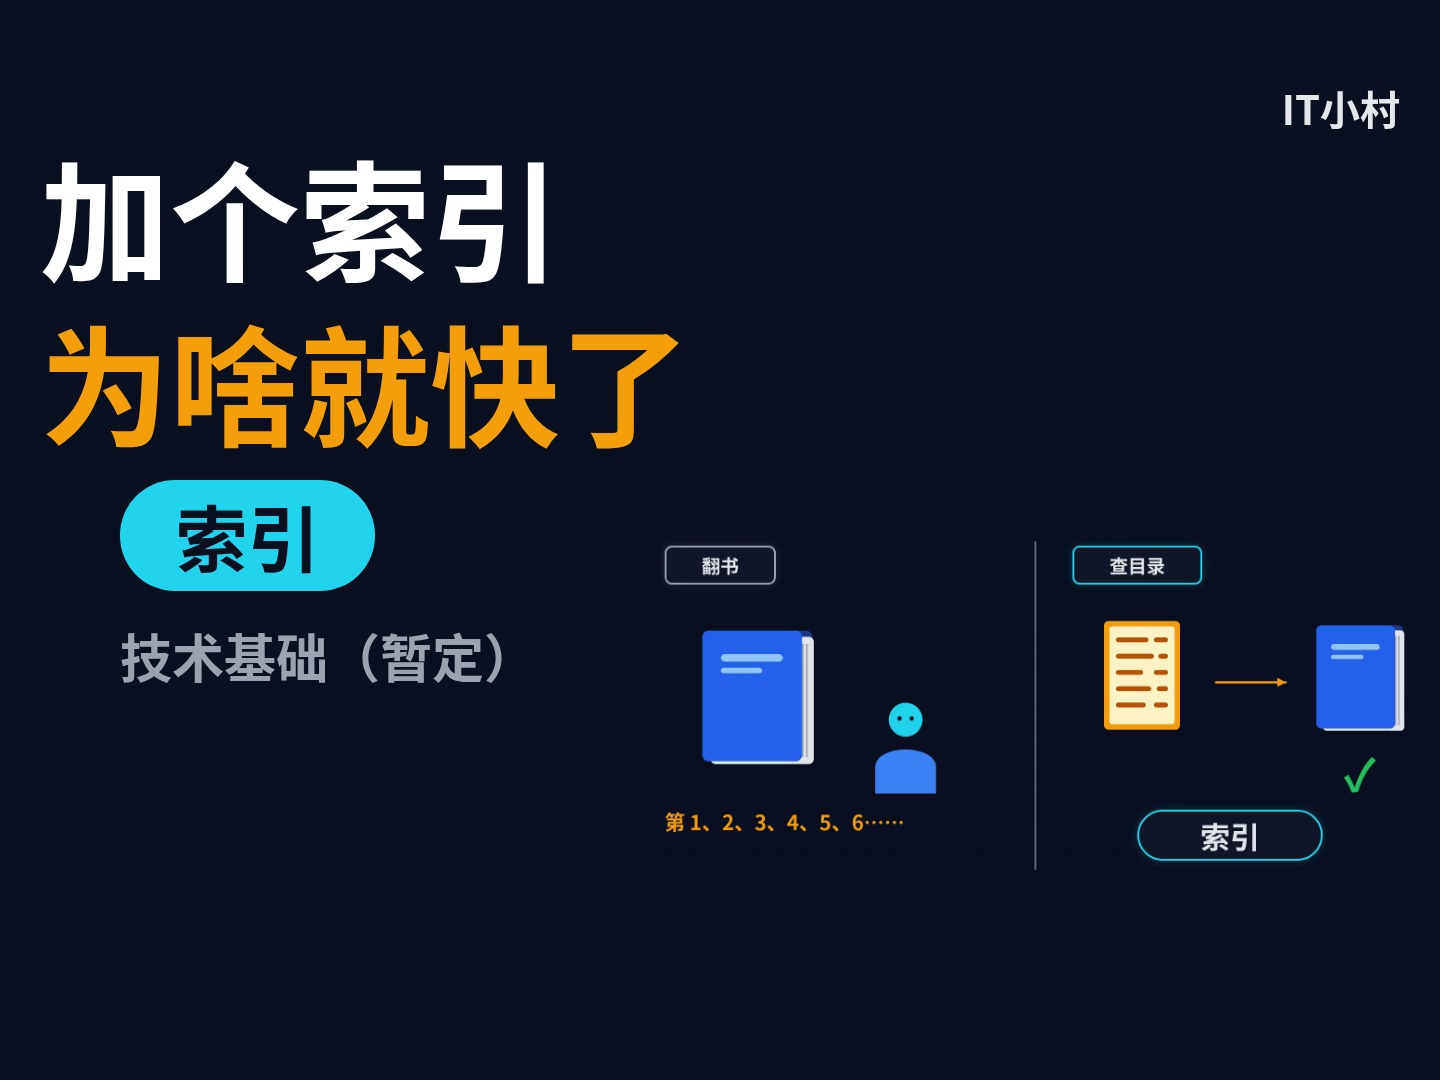
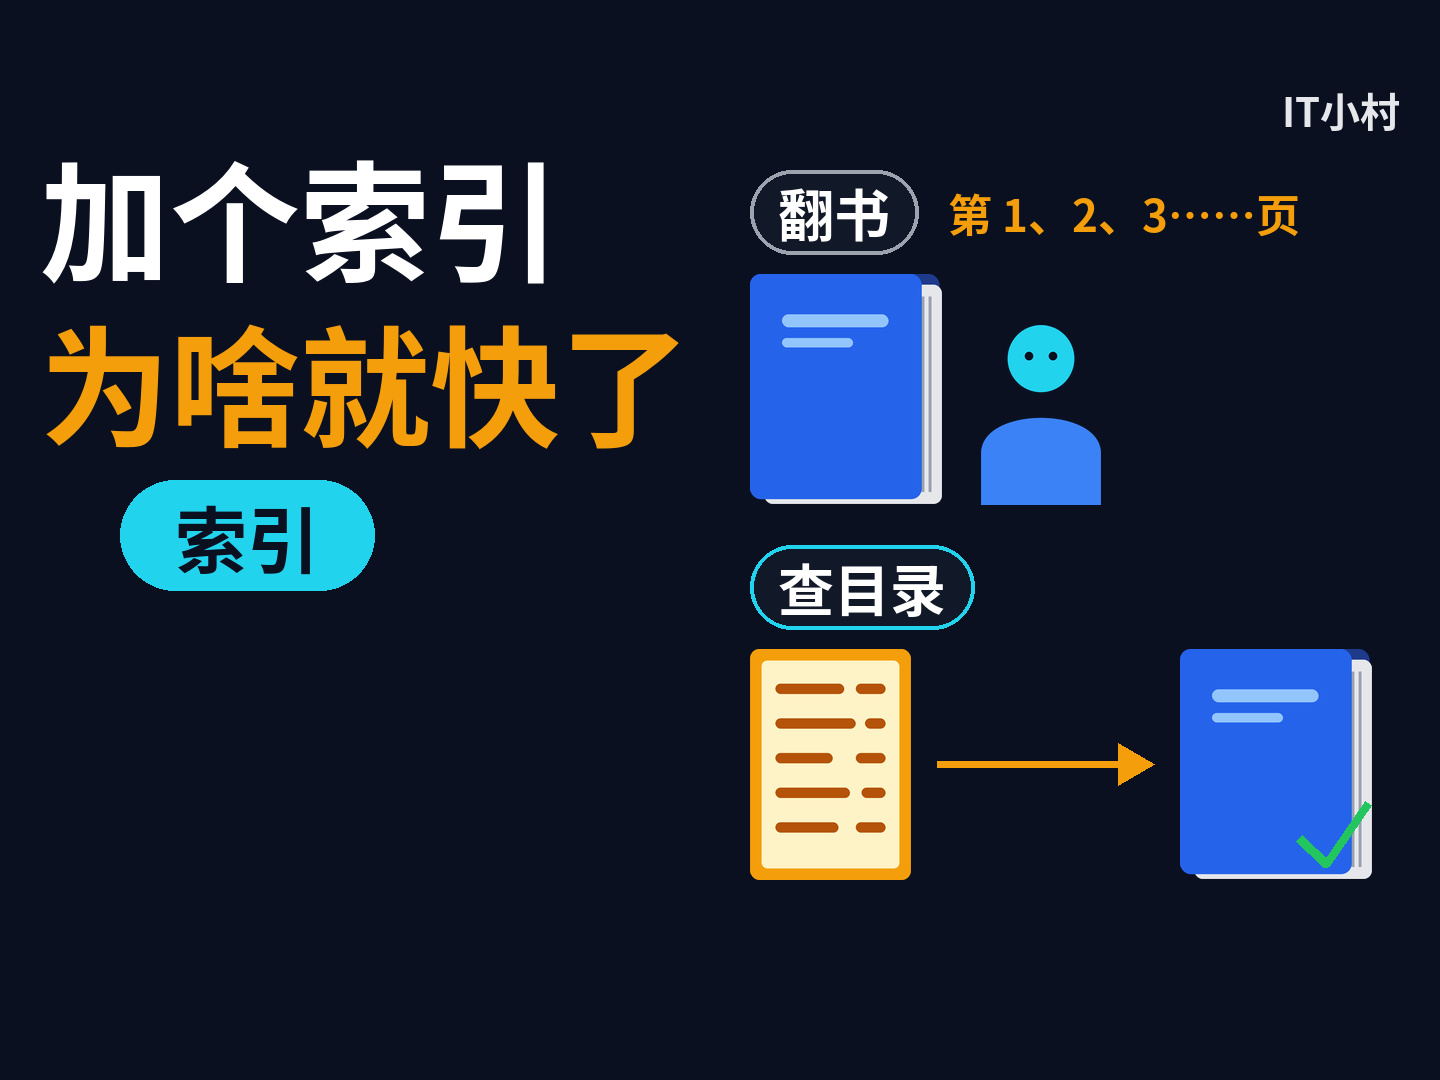
feat(db-index): 第十四期封面换 Miyazaki 定稿设计稿（PNG 源 cover/，转 JPG），cover-spec 标 designed/approved

diff --git a/episodes/db-index/cover/make_cover.py b/episodes/db-index/cover/make_cover.py
@@ -1,0 +1,64 @@
+# EP.14 封面设计稿（Miyazaki）：沿用 covers/make_covers.py 的版式 / 配色 / 字体（EP.12 做法：16:9 主稿，4:3 = 16:9 居中裁 x240–1680，3:4 单独排）
+# 主图用本期自绘 SVG（book / toc / person）重新排：上一行「翻书」= 书 + 小人 + 页码计数；下一行「查目录」= 目录 → 书 ✓。无系列名（未定）
+import io
+from PIL import Image,ImageDraw,ImageFont
+import cairosvg
+A='/workspace/miyazaki-backup/db-index/assets/';OUT='/workspace/miyazaki-backup/db-index/cover/'
+FONT='/usr/share/fonts/opentype/noto/NotoSansCJK-Bold.ttc';FT=lambda s:ImageFont.truetype(FONT,int(s),index=2)
+P=dict(bg="#0B1020",panel="#111827",primary="#22D3EE",accent="#F59E0B",success="#22C55E",text="#FFFFFF",text2="#9CA3AF",line="#374151")
+TITLE=["加个索引","为啥就快了"];BADGE="索引"
+def svg(n,w,h):
+    im=Image.open(io.BytesIO(cairosvg.svg2png(url=A+n+'.svg',output_width=1600))).convert('RGBA');im=im.crop(im.getbbox())
+    k=min(w/im.width,h/im.height);return im.resize((int(im.width*k),int(im.height*k)),Image.LANCZOS)
+def pill(d,x,y,text,fs,col,fill=None):
+    w=int(d.textlength(text,font=FT(fs)))+fs;h=int(fs*1.5)
+    d.rounded_rectangle([x,y,x+w,y+h],h//2,fill=fill or P['panel'],outline=col,width=max(4,fs//12));d.text((x+w/2,y+h/2),text,font=FT(fs),fill=P['text'],anchor='mm');return (x,y,x+w,y+h)
+def tick(d,x,y,s):
+    d.line([(x,y+s*0.5),(x+s*0.38,y+s*0.88),(x+s,y)],fill=P['success'],width=max(8,int(s*0.14)),joint='curve')
+def arrow(d,x0,x1,y,s):
+    d.line([(x0,y),(x1-s,y)],fill=P['accent'],width=max(6,s//4));d.polygon([(x1-s*1.2,y-s*0.7),(x1,y),(x1-s*1.2,y+s*0.7)],fill=P['accent'])
+def place(F,im,x,y): F.alpha_composite(im,(int(x),int(y)));return (int(x),int(y),int(x)+im.width,int(y)+im.height)
+def rows(F,d,x,y,w,h,tagfs,cntfs,tagleft):
+    """两行对比，返回所有占用框（查重叠）"""
+    R=[];rh=(h-40)//2
+    for r in range(2):
+        ry=y+r*(rh+40);label=("翻书",P['text2']) if r==0 else ("查目录",P['primary'])
+        tw=int(d.textlength("查目录",font=FT(tagfs)))+tagfs   # 两个标签同宽对齐
+        if tagleft:
+            th=int(tagfs*1.5);tb=pill(d,x,ry+(rh-th)//2,label[0],tagfs,label[1]);cx=x+tw+40;cy=ry;cw=w-tw-40;ch=rh
+        else:
+            tb=pill(d,x,ry,label[0],tagfs,label[1]);cx=x;cy=tb[3]+20;cw=w;ch=rh-(tb[3]-ry)-20
+        R.append(tb)
+        if r==0:   # 书 + 小人 + 计数
+            bh=ch-(int(cntfs*1.4) if tagleft else 0);b=svg('book',cw*0.55,bh);R.append(place(F,b,cx,cy))
+            p=svg('person',cw*0.36,bh*0.78);R.append(place(F,p,cx+b.width+cw*0.06,cy+bh-p.height))
+            t="第 1、2、3……页"
+            if tagleft: tbx=d.textbbox((cx,cy+bh+6),t,font=FT(cntfs));d.text((cx,cy+bh+6),t,font=FT(cntfs),fill=P['accent'])
+            else: tbx=d.textbbox((tb[2]+30,tb[1]+(tb[3]-tb[1])/2),t,font=FT(cntfs),anchor='lm');d.text((tb[2]+30,tb[1]+(tb[3]-tb[1])/2),t,font=FT(cntfs),fill=P['accent'],anchor='lm')
+            R.append(tbx)
+        else:      # 目录 → 书 ✓
+            tc=svg('toc',cw*0.36,ch);R.append(place(F,tc,cx,cy+(ch-tc.height)/2))
+            bk=svg('book',cw*0.4,ch);bx=cx+cw-bk.width-ch*0.12;R.append(place(F,bk,bx,cy+(ch-bk.height)/2))
+            arrow(d,cx+tc.width+cw*0.04,bx-cw*0.04,cy+ch/2,max(30,int(ch*0.1)))
+            s=int(ch*0.3);tx_=bx+bk.width-s*1.05;ty_=cy+(ch+bk.height)/2-s*1.1;tick(d,tx_,ty_,s);R.append((int(tx_),int(ty_),int(tx_+s),int(ty_+s)))
+    return R
+def head(d,W,tx,ty,tfs,tlh,align,bx,by,bh,bfs,wx,wy):
+    R=[]
+    for i,l in enumerate(TITLE):
+        a='la' if align=='left' else 'ma';d.text((tx,ty+i*tlh),l,font=FT(tfs),fill=P['text'] if i==0 else P['accent'],anchor=a,stroke_width=4,stroke_fill=P['bg']);R.append(d.textbbox((tx,ty+i*tlh),l,font=FT(tfs),anchor=a))
+    bw=int(d.textlength(BADGE,font=FT(bfs)))+bh;d.rounded_rectangle([bx,by,bx+bw,by+bh],bh//2,fill=P['primary']);d.text((bx+bw/2,by+bh/2),BADGE,font=FT(bfs),fill=P['bg'],anchor='mm');R.append((bx,by,bx+bw,by+bh))
+    d.text((wx,wy),"IT小村",font=FT(40),fill="#E5E7EB",anchor='ra');R.append(d.textbbox((wx,wy),"IT小村",font=FT(40),anchor='ra'));return R
+def overl(R):
+    return [(a,b) for i,a in enumerate(R) for b in R[i+1:] if a[0]<b[2] and b[0]<a[2] and a[1]<b[3] and b[1]<a[3]]
+# 16:9（同 make_covers L["16x9"]：标题 x280 y120 fs130 lh165，徽标 x360 y480 h110 fs72，水印 x1640 y80；内容在 4:3 区 x240–1680 内，y≤900 无字）
+F=Image.new('RGBA',(1920,1080),P['bg']);d=ImageDraw.Draw(F)
+H=head(d,1920,280,120,130,165,'left',360,480,110,72,1640,80)
+S=rows(F,d,990,170,650,710,56,44,False)
+print('16x9 overlaps',overl(H+S),'subject box',min(r[0] for r in S),min(r[1] for r in S),max(r[2] for r in S),max(r[3] for r in S))
+F.convert('RGB').save(OUT+'ep14-16x9.png');F.convert('RGB').crop((240,0,1680,1080)).save(OUT+'ep14-4x3.png')
+# 3:4（标题居中 y190 fs140 lh170，徽标 x90 y560 h100 fs64，水印 x1000 y144；文字 y≤1224）
+F=Image.new('RGBA',(1080,1440),P['bg']);d=ImageDraw.Draw(F)
+H=head(d,1080,540,190,140,170,'center',90,560,100,64,1000,144)
+S=rows(F,d,90,700,900,620,64,48,True)
+print('3x4 overlaps',overl(H+S),'subject box',min(r[0] for r in S),min(r[1] for r in S),max(r[2] for r in S),max(r[3] for r in S))
+F.convert('RGB').save(OUT+'ep14-3x4.png')
